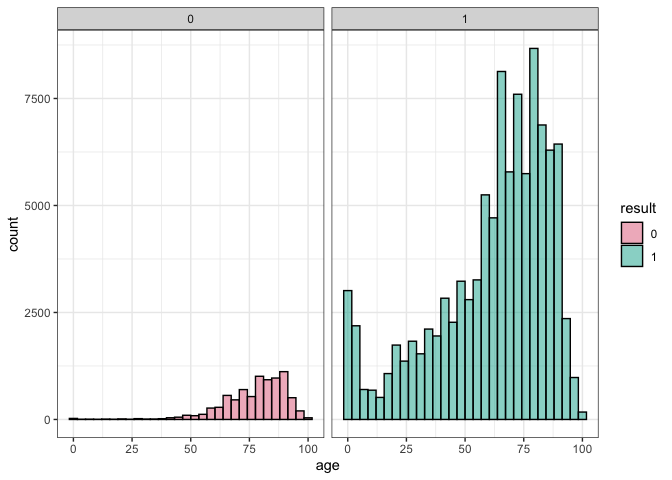
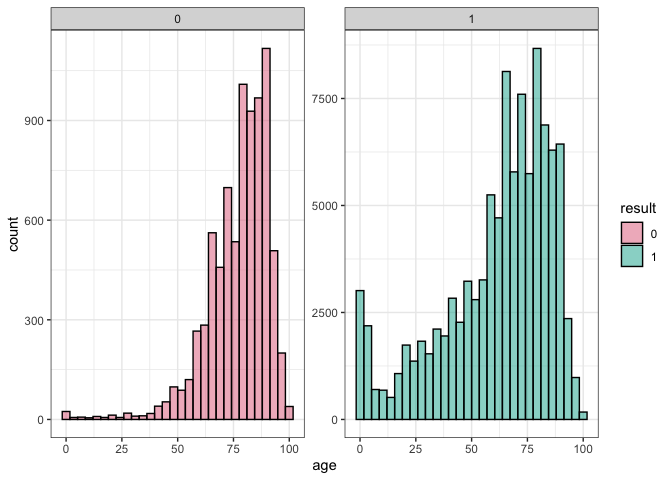
Push

diff --git a/Sepsis-Survival-Classification-Naives-Bayes.md b/Sepsis-Survival-Classification-Naives-Bayes.md
@@ -31,6 +31,9 @@ Things still need to do/Questions:
 
 ## Introduction
 
+![](https://miro.medium.com/max/1154/1*lIhMVUIcX6cSq2URrG9M1w.webp)
+Sepsis is bad.
+
 Four (4) clinical features: - age_years: integer - sex_0male_1female:
 binary - episode_number: integer - hospital_outcome_1alive_0dead:
 boolean
@@ -48,6 +51,7 @@ library(ggthemes)
 library(ggplot2)
 library(viridis)
 library(colorspace)
+library(scales)
 ```
 
 ## Loading the Data
@@ -145,48 +149,72 @@ summary(data)
 ``` r
 #create a histogram
 ggplot(data, aes(x=age, fill= result)) +
-  geom_histogram(alpha = .5, color = 'black', scale= 'free') +
-  facet_wrap(~result) +
+  geom_histogram(alpha = .5, color = 'black') +
+  facet_wrap(~result, scales= 'free_y') +
   scale_fill_discrete_qualitative() +
   theme_bw()
 ```
-
-    ## Warning in geom_histogram(alpha = 0.5, color = "black", scale = "free"):
-    ## Ignoring unknown parameters: `scale`
-
-    ## `stat_bin()` using `bins = 30`. Pick better value with `binwidth`.
 
 ![](Sepsis-Survival-Classification-Naives-Bayes_files/figure-gfm/unnamed-chunk-5-1.png)<!-- -->
 
 ``` r
 #create a density plot
 ggplot(data, aes(x=age, fill= sex)) +
-  geom_density(alpha=.5, color = 'black') +
+  geom_density(alpha = .5, color = 'black') +
   scale_fill_discrete_qualitative() +
   theme_bw()
 ```
 
-![](Sepsis-Survival-Classification-Naives-Bayes_files/figure-gfm/unnamed-chunk-5-2.png)<!-- -->
+![](Sepsis-Survival-Classification-Naives-Bayes_files/figure-gfm/unnamed-chunk-6-1.png)<!-- -->
+
+``` r
+ggplot(data, aes(x=age, fill=result)) +
+  geom_bar(position = 'dodge' ) +
+  scale_fill_discrete_qualitative() +
+  theme_bw()
+```
+
+![](Sepsis-Survival-Classification-Naives-Bayes_files/figure-gfm/unnamed-chunk-6-2.png)<!-- -->
 
 ``` r
 #create a violin plot
 ggplot(data, aes(x=epi, y=age, fill=sex)) +
-  geom_violin(color='black') +
+  geom_violin(alpha = .5, color='black') +
   scale_fill_discrete_qualitative() +
   theme_bw()
 ```
 
-![](Sepsis-Survival-Classification-Naives-Bayes_files/figure-gfm/unnamed-chunk-5-3.png)<!-- -->
+![](Sepsis-Survival-Classification-Naives-Bayes_files/figure-gfm/unnamed-chunk-7-1.png)<!-- -->
+
+``` r
+ggplot(data, aes(x=epi, fill=result)) +
+  geom_bar(alpha = .5, color='black', position = 'dodge') +
+  facet_wrap(~ epi, scales = 'free') +
+  scale_fill_discrete_qualitative() +
+  theme_bw()
+```
+
+![](Sepsis-Survival-Classification-Naives-Bayes_files/figure-gfm/unnamed-chunk-7-2.png)<!-- -->
 
 ``` r
 #create a boxplot
 ggplot(data, aes(x=result, y=age, fill=sex)) +
-  geom_boxplot(color = 'black') +
+  geom_boxplot(alpha = .5, color = 'black') +
   scale_fill_discrete_qualitative() +
   theme_bw()
 ```
 
-![](Sepsis-Survival-Classification-Naives-Bayes_files/figure-gfm/unnamed-chunk-5-4.png)<!-- -->
+![](Sepsis-Survival-Classification-Naives-Bayes_files/figure-gfm/unnamed-chunk-8-1.png)<!-- -->
+
+``` r
+ggplot(data, aes(x=result, fill=sex)) +
+  geom_bar(alpha = .5, color='black', width = 0.5) +
+  facet_wrap(~ result, scales = 'free') +
+  scale_fill_discrete_qualitative() +
+  theme_bw()
+```
+
+![](Sepsis-Survival-Classification-Naives-Bayes_files/figure-gfm/unnamed-chunk-8-2.png)<!-- -->
 
 ## Naives Bayes
 
